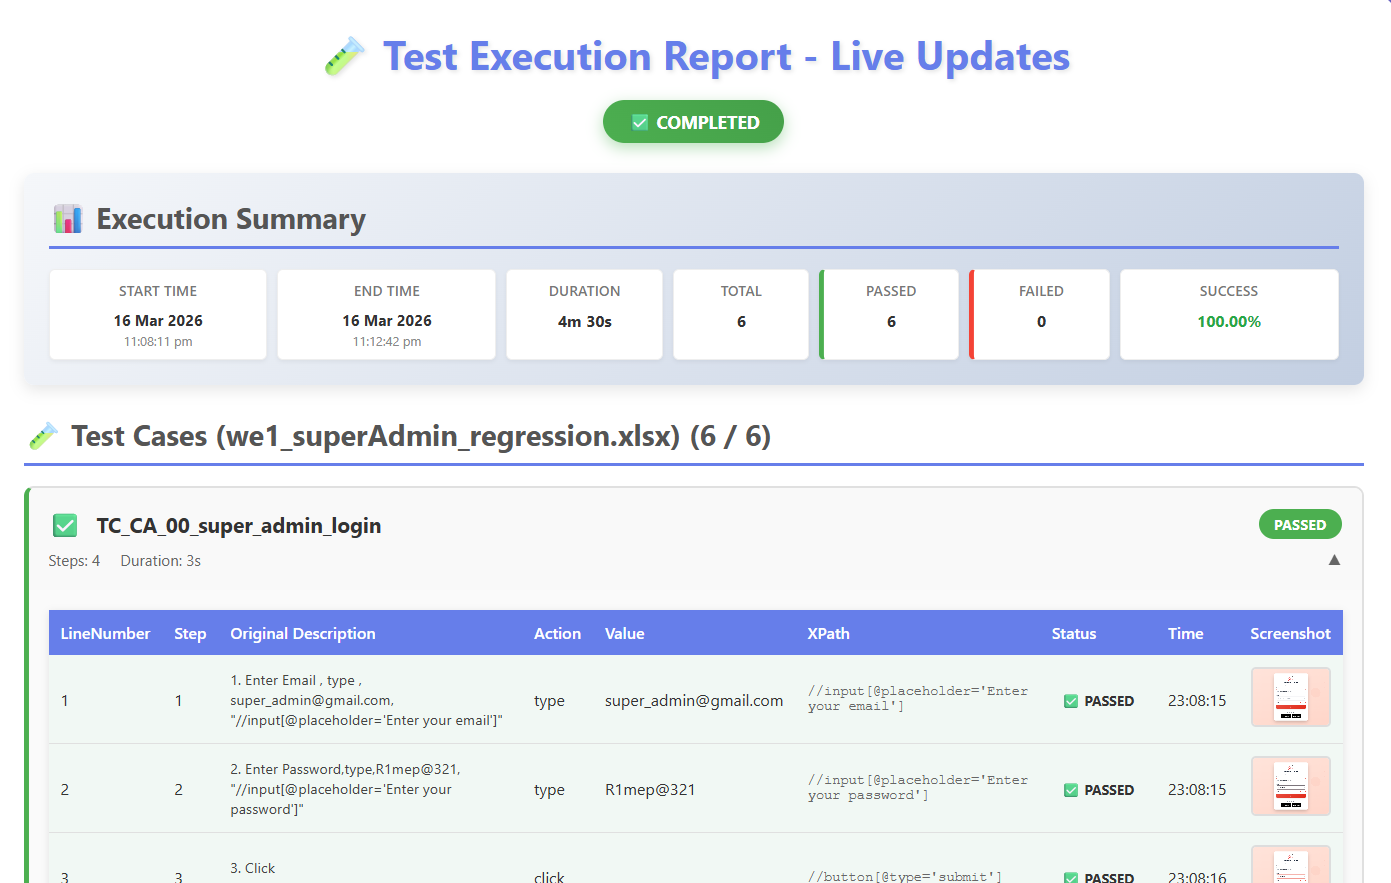
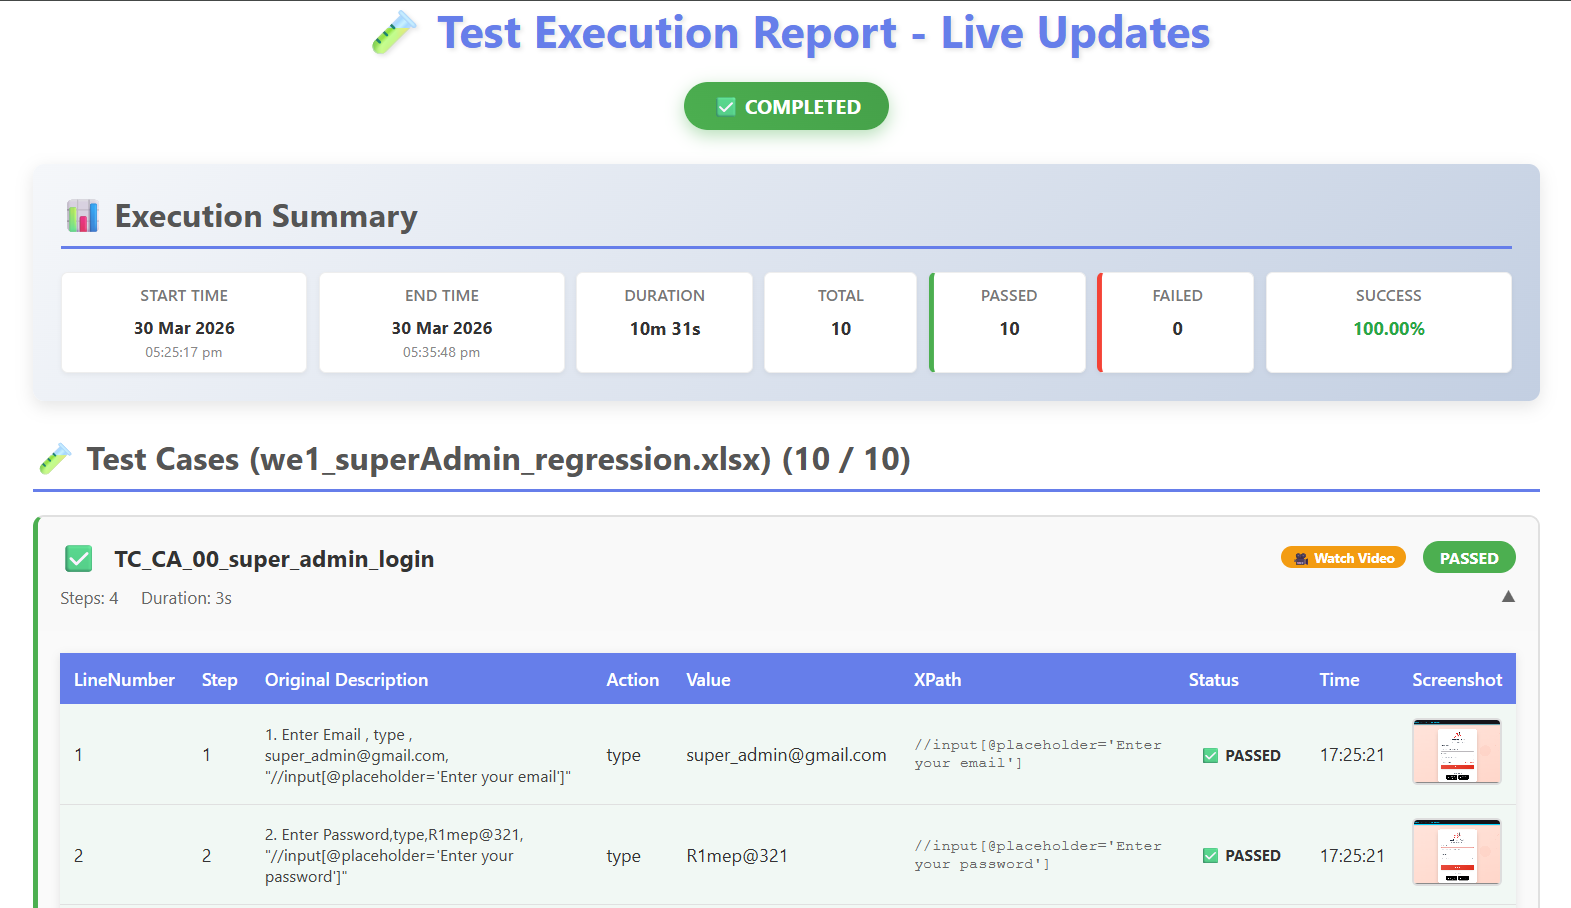
48th commit: Added The KEYWORDS_REFRENCE.md File For ABCD Test Suite

diff --git a/KEYWORDS_REFRENCE.md b/KEYWORDS_REFRENCE.md
@@ -1,0 +1,180 @@
+# 📘 ABCD Automation Framework: Full Keywords Dictionary
+
+This document is the official reference for writing automated test cases. The `StepParser` uses natural language processing (Regex) to match your Excel steps to automation actions.
+
+---
+
+## 🛠 1. Navigation & System
+
+| Action | Phrase Examples (Natural Language) | Description |
+| :--- | :--- | :--- |
+| **openurl** | `Maps to`, `open url`, `go to url`, `Maps` | Opens a specific website URL. |
+| **back / forward** | `back`, `forward` | Browser navigation history. |
+| **max / min** | `maximize`, `minimize` | Controls the browser window size. |
+| **screenshot** | `screenshot`, `take screenshot` | Captures the current screen. |
+
+**Excel Example:**
+
+| Test Step Description | Action | Value | Target (XPath) |
+| :--- | :--- | :--- | :--- |
+| Open Login Page | openurl | - | https://dev.we1.co/#/login |
+| Maximize Browser | maximize | - | - |
+
+---
+
+## ⌨ 2. Interactions & Input
+
+| Action | Phrase Examples (Natural Language) | Description |
+| :--- | :--- | :--- |
+| **type** | `enter the`, `type`, `input`, `fill` | Enters text into a field. |
+| **click** | `click`, `press` | Clicks a button, link, or element. |
+| **clear** | `clear text`, `empty field`, `remove value` | Wipes the content of an input box. |
+| **select** | `select [value]` | Selects from a dropdown (excludes file/radio). |
+| **tab** | `tab key`, `tab` | Simulates the **TAB** key. |
+| **press_enter** | `press enter`, `enter key` | Simulates the **ENTER** key. |
+| **arrows** | `arrow_down`, `arrow_up` | Simulates keyboard arrow keys. |
+
+**Excel Example:**
+
+| Test Step Description | Action | Value | Target (XPath) |
+| :--- | :--- | :--- | :--- |
+| Enter SuperAdmin Email | type | admin@gmail.com | //input[@placeholder='Enter email'] |
+| Click Login Button | click | - | //button[@type='submit'] |
+| Scroll Grid Right | tab | 5 | //div[@class='grid-body'] |
+
+---
+
+## 📁 3. File Uploads & System Tools
+
+| Action | Phrase Examples (Natural Language) | Description |
+| :--- | :--- | :--- |
+| **uploadfile** | `upload`, `attach`, `select file`, `choose file` | Handles standard web file uploads. |
+| **waitforupload**| `wait for upload` | Pauses until a file finishes uploading. |
+| **autoit** | `autoit`, `runautoit`, `executeautoit` | Triggers an AutoIt script for system dialogs. |
+| **robotupload** | `robot`, `robotupload`, `uploadrobot` | Uses Java Robot class for OS-level uploads. |
+
+**Excel Example:**
+
+| Test Step Description | Action | Value | Target (XPath) |
+| :--- | :--- | :--- | :--- |
+| Upload License Image | uploadfile | src/main/resources/test-data/license.jpg | //input[@type='file'] |
+
+---
+
+## 🔍 4. Verification & Assertions
+
+| Action | Phrase Examples (Natural Language) | Description |
+| :--- | :--- | :--- |
+| **verifyvisible** | `displayed`, `visible`, `appear`, `shown` | Confirms element is on screen. |
+| **verifyhidden** | `not displayed`, `should not appear`, `hidden` | Confirms element is NOT visible. |
+| **verifytext** | `verify text`, `label`, `verify exact text` | Checks if the text matches exactly. |
+| **verifycontains**| `contains`, `text contains`, `label contains` | Checks if text exists within a string. |
+| **verifyenabled** | `enabled`, `disabled` | Checks if a button is clickable or greyed out. |
+| **verifyselected**| `selected`, `checked` | Checks state of checkboxes/radio buttons. |
+
+**Excel Example:**
+
+| Test Step Description | Action | Value | Target (XPath) |
+| :--- | :--- | :--- | :--- |
+| Verify Dashboard Load | verifyvisible | - | //div[contains(text(),'Statistics')] |
+| Check Success Toast | verifytext | Added Successfully | //div[@role='alert'] |
+
+---
+
+## ⏳ 5. Explicit Waits & Toasts
+
+| Action | Phrase Examples (Natural Language) | Description |
+| :--- | :--- | :--- |
+| **waitforvisible**| `wait until visible`, `wait for visible` | Pauses until element appears. |
+| **waitforpageload**| `wait for page`, `wait for load` | Waits for the entire page to finish loading. |
+| **waitfortoast** | `wait for toast` | Pauses for the success/error message popup. |
+| **verifysuccesstoast**| `toast success` | Specifically checks for a green success toast. |
+| **wait** | `wait 5` | A simple static pause (value is in seconds). |
+
+**Excel Example:**
+
+| Test Step Description | Action | Value | Target (XPath) |
+| :--- | :--- | :--- | :--- |
+| Wait for Success | waitfortoast | - | - |
+| Hard Pause | wait | 3 | - |
+
+---
+
+## 🖱 6. Scrolling, Frames & Maps
+
+| Action | Phrase Examples (Natural Language) | Description |
+| :--- | :--- | :--- |
+| **scrolltoelement**| `scroll to element`, `scroll to` | Moves view to a specific element. |
+| **scrolltotop** | `scroll up`, `scroll to top` | Moves to the top of the page. |
+| **scrolltobottom**| `scroll down`, `scroll to bottom` | Moves to the bottom of the page. |
+| **switchtoframe** | `switch to frame` | Moves driver focus inside an iFrame. |
+| **drawpolygon** | `draw the polygon` | Specialized interaction for map elements. |
+| **verifygridvalue**| `verify grid` | Checks values inside a data table/grid. |
+
+**Excel Example:**
+
+| Test Step Description | Action | Value | Target (XPath) |
+| :--- | :--- | :--- | :--- |
+| Map City Boundary | drawpolygon | -120;-120 : 120;-120 : 120;120 : -120;120 | //div[@class='map-container'] |
+
+---
+
+## 🎲 7. Dynamic Placeholders (Value Column)
+
+| Placeholder | Result Example | Best For |
+| :--- | :--- | :--- |
+| **`{timestamp}`** | `301715` | Unique IDs/Names (Numbers only). |
+| **`{randomAlpha}`** | `QWERTZ` | **Plumber Names** (Letters only). |
+| **`{randomPhone}`** | `9845123456` | Valid 10-digit Indian Mobile format. |
+
+**Excel Example:**
+
+| Test Step Description | Action | Value                | Target (XPath) |
+| :--- | :--- |:---------------------| :--- |
+| Enter Unique Area | type | Chennai_{timestamp}  | //input[@id='areaName'] |
+| Enter Plumber Name | type | Plumber{randomAlpha} | //input[@id='providerName'] |
+
+> **⚠ STRICT VALIDATION RULE:** If a field (like Plumber Name) does not allow numbers or underscores, use **`Plumber{randomAlpha}`** directly (No spaces, no symbols).
+
+---
+
+## 💾 8. Save & Reuse Logic
+
+Capture a value in one step to use it in a later step.
+
+### **How to Save:**
+
+Use the `>>` operator in the **Value** column.
+- **Action:** `type`
+- **Value:** `NewUser{randomAlpha} >> savedName`
+- *Result:* Generates `NewUserBQK`, types it, and stores it as "savedName".
+
+### **How to Reuse:**
+
+Wrap the variable name in curly braces `{}`.
+- **Action:** `type`
+- **Value:** `{savedName}`
+- *Result:* Types the exact same value generated previously.
+
+**Excel Example:**
+
+| Step | Description | Action | Value | Target (XPath) |
+| :--- | :--- | :--- | :--- | :--- |
+| 1 | Create Store Name | type | KFC_{timestamp} >> storeName | //input[@id='sname'] |
+| 2 | ...Other Steps... | ... | ... | ... |
+| 3 | Filter Created Store | type | {storeName} | //input[@placeholder='Search'] |
+
+---
+
+## 📊 9. Reporting & Debugging
+The framework is designed to make debugging easy:
+1.  **Red Box Highlighting:** If a step fails, the report screenshot will show a **Red Border** around the specific element that failed.
+2.  **Video Logs:** Check `test-outputs/videos` for a full recording of the execution.
+3.  **Smart Errors:** The framework tells you if the error was a "Timeout" (Missing element) or a "Validation Error" (Form rejected).
+
+---
+
+## 💡 Best Practices
+* **Relative Paths:** Use `src/main/resources/test-data/image.jpg` for uploads. Never use `C:\Users\...`.
+* **Excel Locking:** **Always close your Excel file** before running a test to avoid file access errors.
+* **Wait for Toasts:** Use a `wait for toast` or `wait 2` step after clicking "Save" to ensure the system processes the request.

diff --git a/README.md b/README.md
@@ -5,6 +5,7 @@
 
 [![Java](https://img.shields.io/badge/Java-17-ED8B00?style=for-the-badge&logo=openjdk&logoColor=white)](https://www.oracle.com/java/)
 [![Selenium](https://img.shields.io/badge/Selenium-4.x-43B02A?style=for-the-badge&logo=selenium&logoColor=white)](https://www.selenium.dev/)
+[![JCodec](https://img.shields.io/badge/Video-JCodec--0.2.5-blue?style=for-the-badge)](https://jcodec.org/)
 [![Maven](https://img.shields.io/badge/Build-Maven-C71A36?style=for-the-badge&logo=apache-maven&logoColor=white)](https://maven.apache.org/)
 
 **A Reusable and Scalable Framework for Simplified Web Automation**
@@ -24,8 +25,7 @@ The framework is built on a modular "Plug-and-Play" design:
 * **Execution Engine:** The core logic that reads the test steps and invokes the corresponding action keywords.
 * **Data Controller:** Manages the input from Excel/Property files using Apache POI.
 * **Locator Repository:** Centralized storage for element locators (XPath, CSS) to ensure easy maintenance.
-
-
+* **Media Controller:** Handles **Screen Recording (AVI/MP4)** of every test session for audit trails.
 
 ---
 
@@ -36,11 +36,30 @@ The framework generates rich and interactive HTML reports. Each test step includ
 
 ---
 
+## 🎲 Dynamic Data Generation
+The framework features a built-in engine to generate unique values on-the-fly. This is essential for testing "Create" forms (like User Registration or Driver Onboarding) where unique names or IDs are required.
+
+| Placeholder | logic | Output Example | Best Used For |
+| :--- | :--- | :--- | :--- |
+| **`{timestamp}`** | Current Time (Numeric) | `30174522` | Unique IDs, Tracking Numbers |
+| **`{randomAlpha}`** | Random Letters (A-Z) | `KJHBTX` | **Plumber/Driver Names**, Usernames |
+| **`{randomPhone}`** | 10-Digit Numeric | `9876543210` | Mobile Number fields |
+
+---
+
+### 💾 Data Persistence (Save & Reuse)
+You can capture a generated value and reuse it in later steps using the `>>` operator:
+1. **Save:** `NewUser{randomAlpha} >> myUser` (Generates `NewUserABC` and saves it).
+2. **Reuse:** Use `{myUser}` in any following step to type the exact same name.
+
+---
+
 ## ✨ Key Features
 * **🚀 High Reusability:** Write a keyword once and use it across hundreds of test cases.
 * **📊 External Configuration:** Manage test execution flows via Excel or Properties files without changing code.
 * **🔍 Robust Logging:** Detailed console logs for every action performed during execution.
 * **🛠 Error Handling:** Built-in try-catch blocks and explicit waits to handle synchronization issues.
+* **🎥 Automated Video Logs:** Every test execution is recorded and saved to `test-outputs/videos`. Perfect for reviewing "flaky" tests that pass locally but fail in CI.
 
 ---
 
@@ -50,7 +69,14 @@ The framework generates rich and interactive HTML reports. Each test step includ
 | **Language** | Java 17 |
 | **Automation Engine** | Selenium WebDriver |
 | **Data Management** | Apache POI / Properties |
+| **Video Encoding** | **JCodec 0.2.5** (Native Java) |
 | **Build Tool** | Maven |
+
+---
+
+- ## 📚 Documentation
+- [Main Framework Guide](README.md)
+- [Keywords & Excel Writing Guide](KEYWORDS_REFRENCE.md) <-- Click to go to keyword Refrence file here!
 
 ---
 
